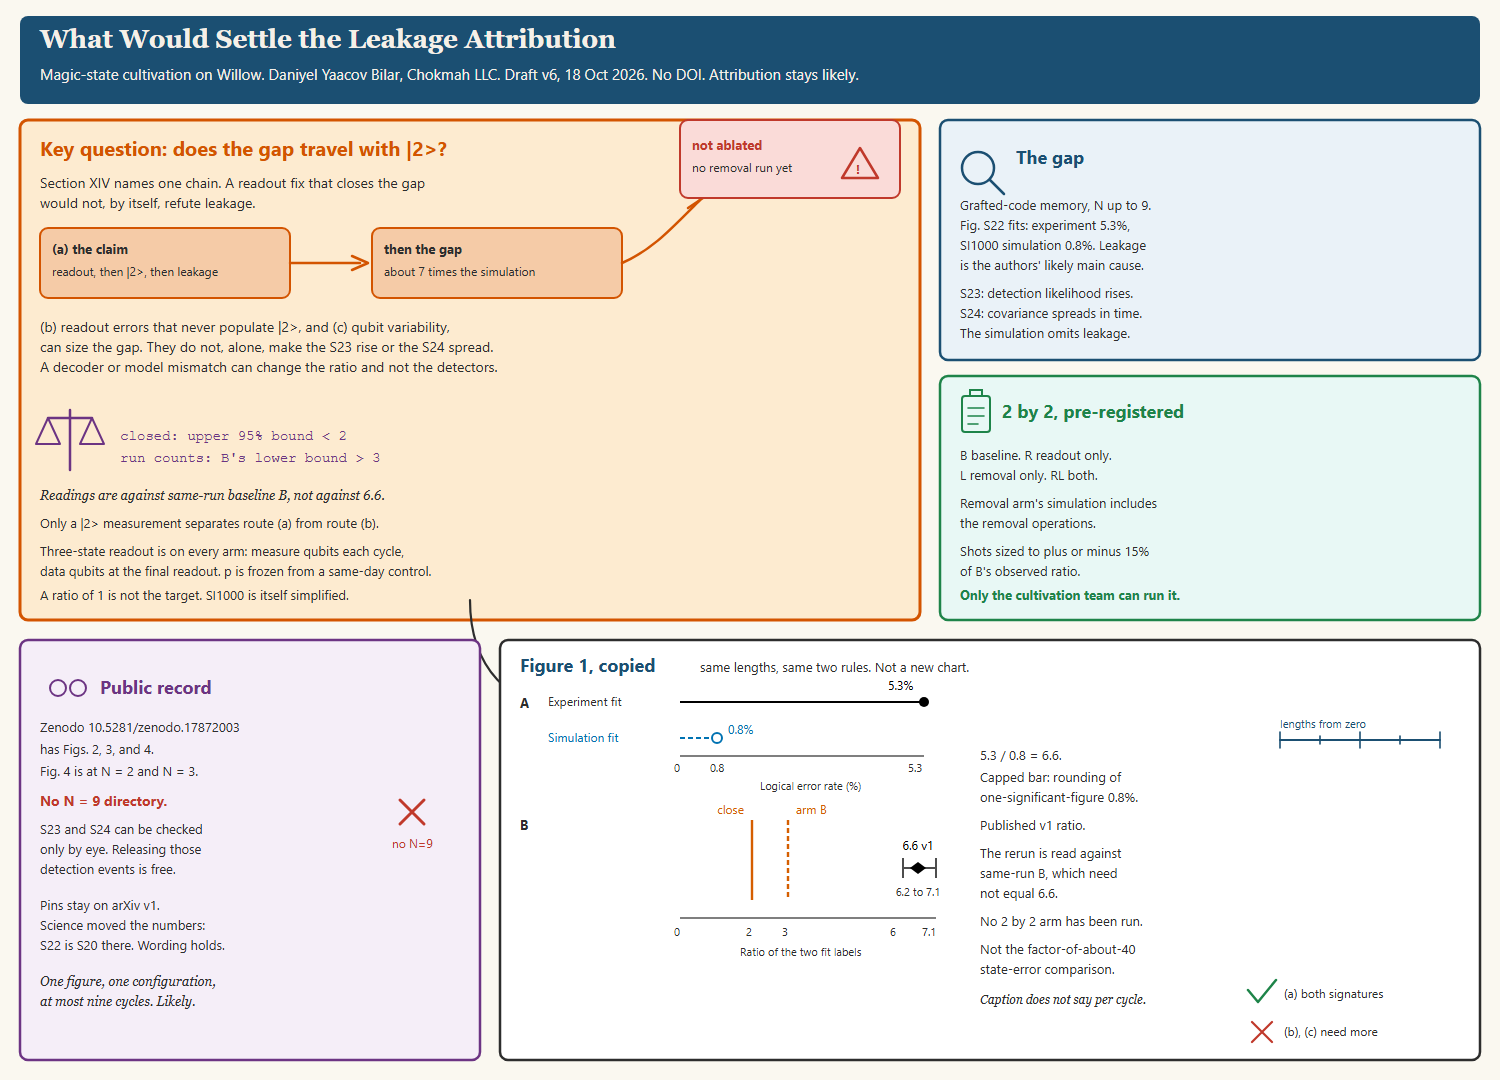
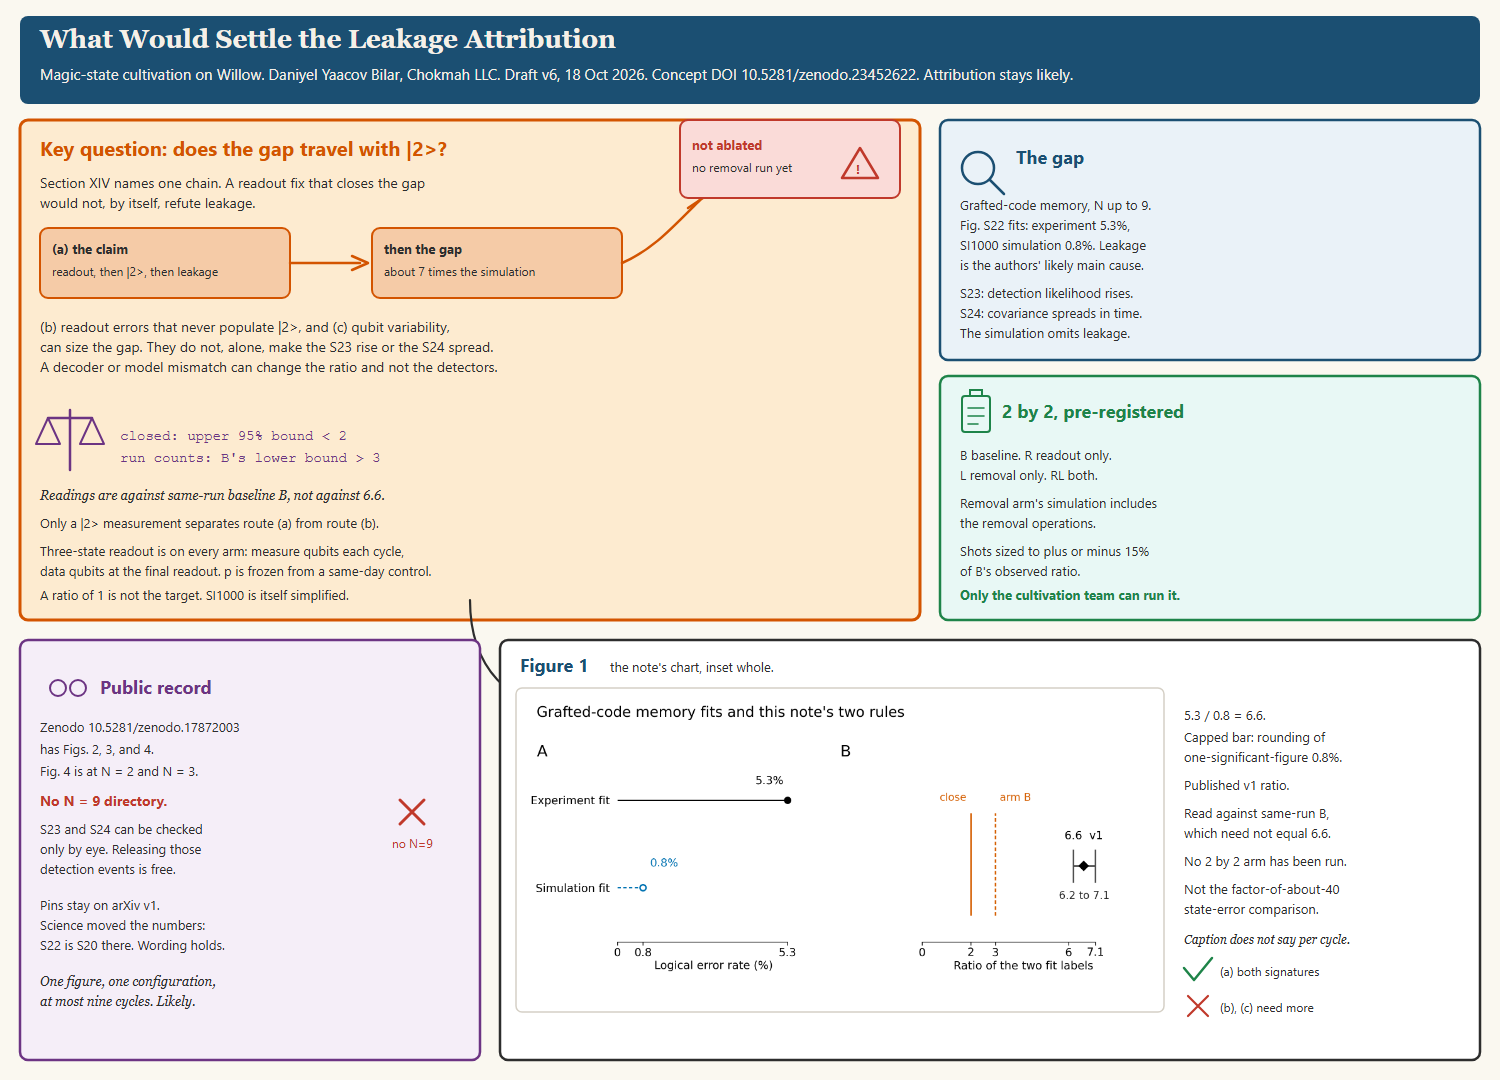
Inset Figure 1 in the sketchnote.
The results panel held a redraw whose ruler sat apart from the stems. It now insets the page-width chart inside a padded frame.

diff --git a/draft/process-log.md b/draft/process-log.md
@@ -3,6 +3,12 @@
 Moved out of the paper body 2026-10-16. The shipping text is
 `follow-up-note-draft-v6.md`. Older drafts stay as the audit trail.
 
+## 2026-10-18 sketchnote inset
+
+The results panel of `results/sketchnote-v6.png` insets
+`fig_sevenfold_gap.png` whole, inside a padded frame. The
+earlier panel redrew the marks and left a separate ruler.
+
 ## 2026-10-18 page-width figure
 
 Figure 1 is the two panels side by side. The Typora PDF of that

diff --git a/CHANGELOG.md b/CHANGELOG.md
@@ -4,6 +4,11 @@
 
 Nothing waiting on a DOI. The 2026-10-18 mint is below.
 
+### 2026-10-18 (sketchnote)
+
+- The results panel insets Figure 1 whole. The earlier redraw
+  split the stems from a separate ruler.
+
 ### 2026-10-18 (page-width figure)
 
 - Paper version DOI 10.5281/zenodo.23455661. Concept DOI stays
